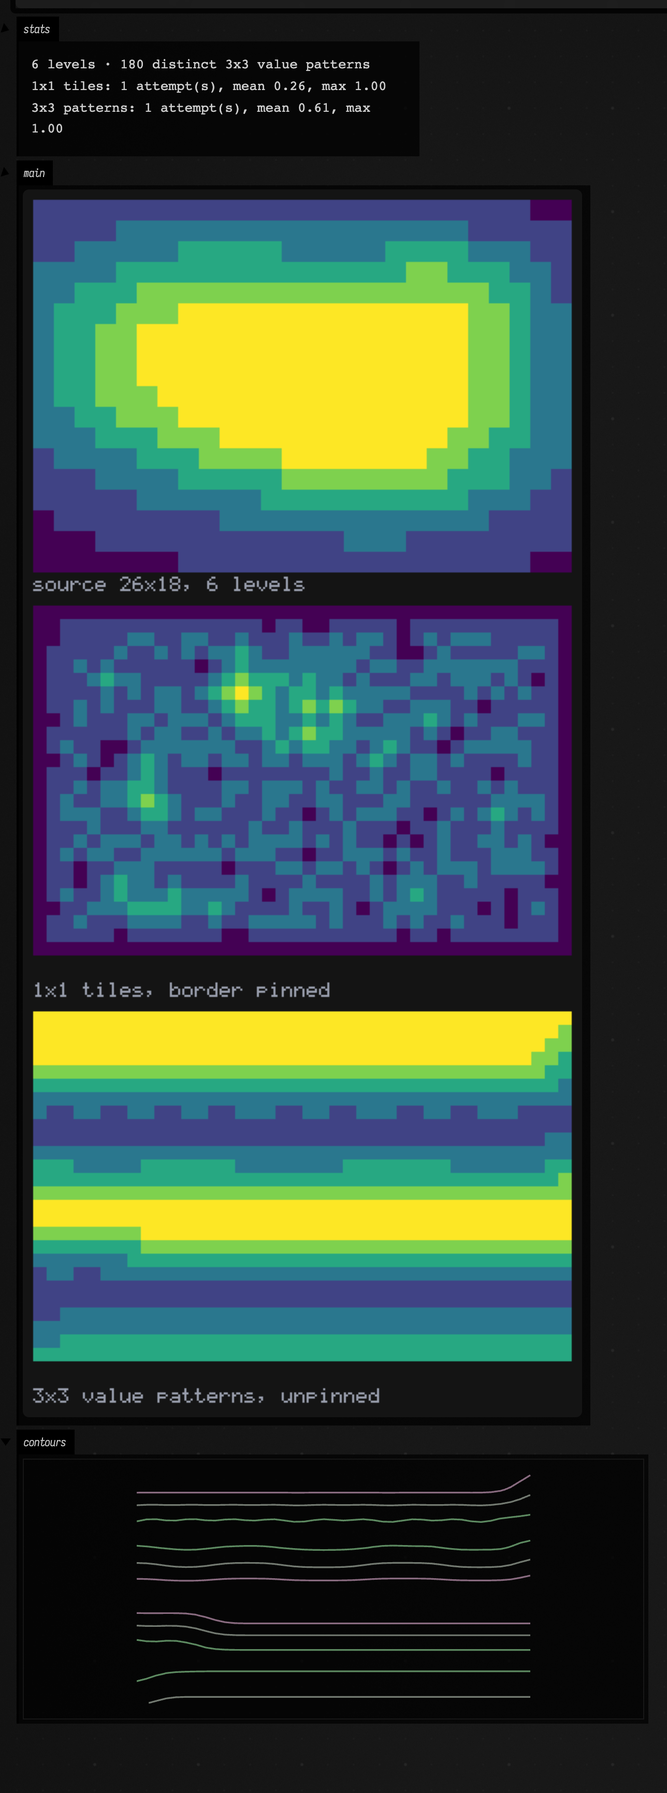
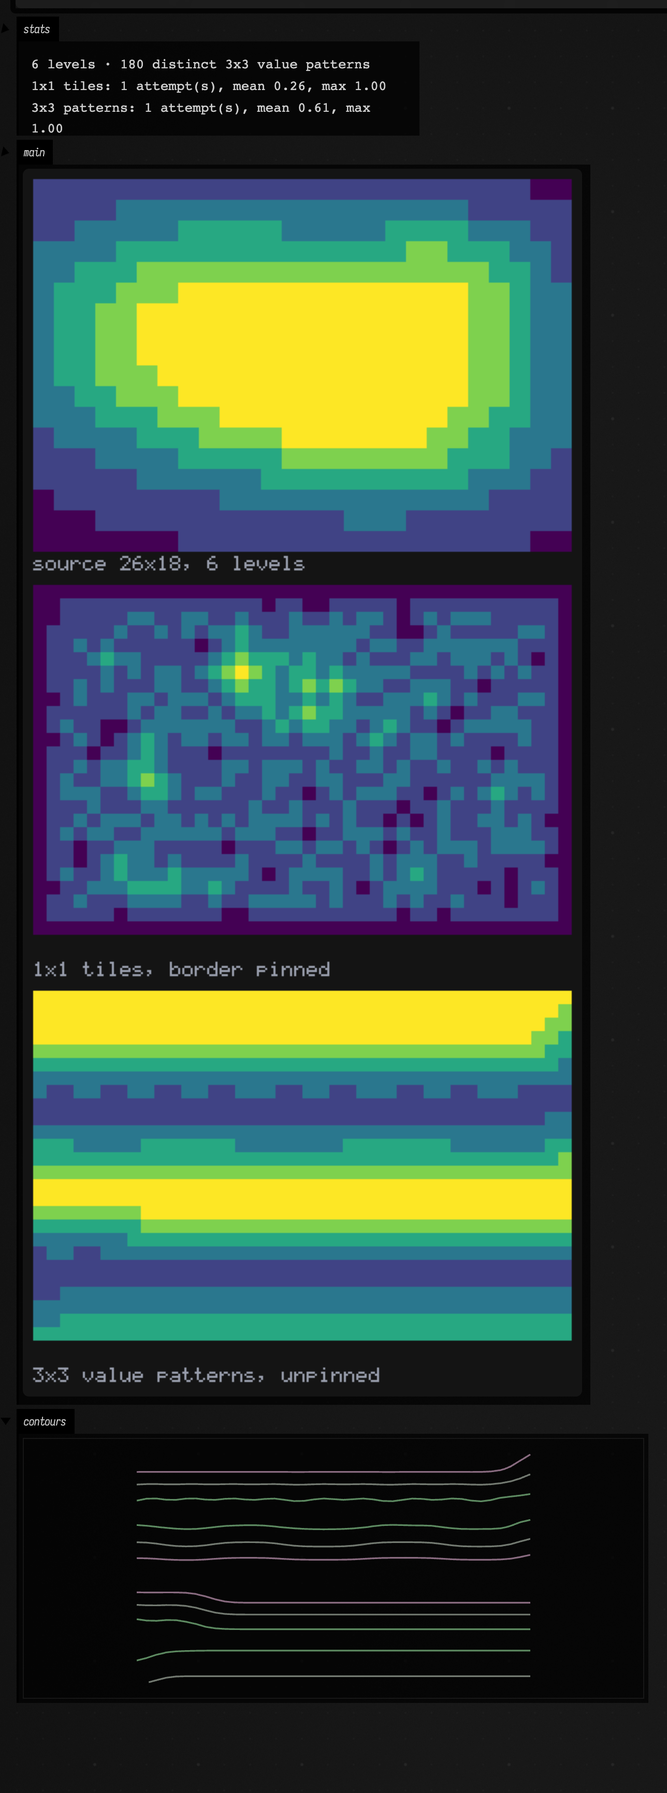
docs(wfc): the solver's own inline view, as a real capture
A new subsection of §5: what the collapse looks like when you simply evaluate the
solver, next to the same view of a failure. One captured figure, produced by the
docs runner from the code shown above it, with a table naming each panel's colour
scale and a read-back channel printing the numbers the panels were drawn from —
so the picture can be checked against them (368/816 decided at 45.1%, one
contradicted cell, entropy ranges 0..1.318 and 0..1.099 nats).

The prose records a design decision that only looking at the picture could have
found: the count panel was magma first, whose mid-ramp pink sits a shade from the
contradiction magenta, and a healthy collapse frontier read as a field of
contradictions. A marker colour is only a marker if it is outside its own ramp.

scalar-field.png and contradiction.png were re-captured because inserting a fence
shifts the block index their cache key includes. contradiction.png is identical
bar 154 edge-antialiasing pixels; scalar-field.png differs by a vertical layout
shift and still shows exactly what the page claims (6 levels, 180 patterns, 1x1
mean 0.26 speckle, 3x3 mean 0.61 horizontal bands, four iso-contour FLines) —
checked by eye against the text.

reference/{data,index}.md and dev_docs/kdoc_worklist.md regenerated for the new
public API; the drift guard (docs.codebase-reference.generate) passes.

diff --git a/public/docs/reference/data.md b/public/docs/reference/data.md
@@ -4,7 +4,7 @@
 
 Structures and processes over data rather than over pixels: clustering and nearest-neighbour search, generative and constraint systems, graph dynamics, and the I/O helpers (files, JSON, subprocesses, OSC-adjacent devices) that get data into a box.
 
-16 source file(s), 617 public symbol(s), 192 of them carrying KDoc. Everything below is the documentation that lives beside the code — the same text the [completion documentation panel](../completion_doc_browser.md) shows in the editor. A blank summary means the declaration has no KDoc yet, not that this page dropped it.
+16 source file(s), 640 public symbol(s), 206 of them carrying KDoc. Everything below is the documentation that lives beside the code — the same text the [completion documentation panel](../completion_doc_browser.md) shows in the editor. A blank summary means the declaration has no KDoc yet, not that this page dropped it.
 
 <div class="codebase-reference" markdown>
 
@@ -1313,6 +1313,10 @@ What this implements:
 Notes:
 - The WFC solver operates only on integer tile IDs and constraints.
 - PNG/FloatArray simple-tiled and overlapping helpers are intentionally separate from the core.
+- The one concession to the rest of Field: [`WfcSolver`](data.md#wfc-kt-wfcsolver) implements [`afield.ToHTML`](visualization.md#valuevisualizer-kt-tohtml), so evaluating a
+  solver in a box draws the collapse instead of a reflective property tree. Every pixel of that
+  view lives in `wfc_field.kt` (`afield.stdlib.wfcSolverHtml`); this file names it once, in
+  `WfcSolver.toHTML`, and depends on nothing else outside itself.
 
 `src/jvmMain/kotlin/afield/stdlib/wfc.kt`
 
@@ -1415,7 +1419,7 @@ Constants: `Running`, `Solved`, `Contradiction`.
 
 ### WfcSolver { #wfc-kt-wfcsolver }
 
-<code class="highlight"><span class="k">class</span> <span class="nf">WfcSolver</span><span class="p">(</span><span class="k">val</span> <span class="n">width</span><span class="p">:</span> <span class="nc">Int</span><span class="p">,</span> <span class="k">val</span> <span class="n">height</span><span class="p">:</span> <span class="nc">Int</span><span class="p">,</span> <span class="k">val</span> <span class="n">rules</span><span class="p">:</span> <span class="nc">WfcRules</span><span class="p">,</span> <span class="n">seed</span><span class="p">:</span> <span class="nc">Long</span> <span class="o">=</span> <span class="mi">1L</span><span class="p">,</span> <span class="k">private</span> <span class="k">val</span> <span class="n">noise</span><span class="p">:</span> <span class="nc">Double</span> <span class="o">=</span> <span class="mi">1e</span><span class="p">-</span><span class="mi">6</span><span class="p">)</span></code>
+<code class="highlight"><span class="k">class</span> <span class="nf">WfcSolver</span><span class="p">(</span><span class="k">val</span> <span class="n">width</span><span class="p">:</span> <span class="nc">Int</span><span class="p">,</span> <span class="k">val</span> <span class="n">height</span><span class="p">:</span> <span class="nc">Int</span><span class="p">,</span> <span class="k">val</span> <span class="n">rules</span><span class="p">:</span> <span class="nc">WfcRules</span><span class="p">,</span> <span class="n">seed</span><span class="p">:</span> <span class="nc">Long</span> <span class="o">=</span> <span class="mi">1L</span><span class="p">,</span> <span class="k">private</span> <span class="k">val</span> <span class="n">noise</span><span class="p">:</span> <span class="nc">Double</span> <span class="o">=</span> <span class="mi">1e</span><span class="p">-</span><span class="mi">6</span><span class="p">)</span> <span class="p">:</span> <span class="n">afield</span><span class="p">.</span><span class="nc">ToHTML</span></code>
 
 | Declaration | Summary |
 | --- | --- |
@@ -1433,6 +1437,8 @@ Constants: `Running`, `Solved`, `Contradiction`.
 | <code class="highlight"><span class="k">fun</span> <span class="nf">run</span><span class="p">(</span><span class="n">maxSteps</span><span class="p">:</span> <span class="nc">Int</span> <span class="o">=</span> <span class="nc">Int</span><span class="p">.</span><span class="nc">MAX&#95;VALUE</span><span class="p">)</span><span class="p">:</span> <span class="nc">WfcStatus</span></code> |  |
 | <code class="highlight"><span class="k">fun</span> <span class="nf">resolvedCellCount</span><span class="p">(</span><span class="p">)</span><span class="p">:</span> <span class="nc">Int</span></code> | Cells collapsed to a single possibility — the WFC notion of "done" is all of them. |
 | <code class="highlight"><span class="k">fun</span> <span class="nf">resolvedTileGridOrNull</span><span class="p">(</span><span class="p">)</span><span class="p">:</span> <span class="nc">IntArray</span><span class="o">?</span></code> |  |
+| <code class="highlight"><span class="k">override</span> <span class="k">fun</span> <span class="nf">toString</span><span class="p">(</span><span class="p">)</span><span class="p">:</span> <span class="nc">String</span></code> |  |
+| <code class="highlight"><span class="k">override</span> <span class="k">fun</span> <span class="nf">toHTML</span><span class="p">(</span><span class="p">)</span><span class="p">:</span> <span class="nc">String</span></code> | The solver's own inline view, so that evaluating it in a box — or `solver.h` — shows the collapse: remaining possibilities per cell, entropy, what has been decided, and any contradiction, each panel captioned with the colour scale that produced it. |
 
 ### WfcOutcome { #wfc-kt-wfcoutcome }
 
@@ -1526,7 +1532,7 @@ no direct way to *look* at what it is doing. These extensions supply the missing
 [`Img`](imaging.md#imaging-kt-img), and therefore into `Box.showImg`, `showImgGrid`, `montage`, `Img.colormap` and the
 `ToHTML` thumbnail a box shows when you evaluate a value.
 
-Two kinds of view:
+Three kinds of view:
 
  1. **The result.** `PngTileSet.toImg`, `PngOverlappingTileSet.toImg` and their `Float`
     counterparts turn a solved tile grid into an image. Pair them with
@@ -1538,6 +1544,11 @@ Two kinds of view:
     `while (solver.step() == WfcStatus.Running)` loop and you have the collapse itself as a
     sequence of frames — which is by far the most informative thing you can look at when rules
     are not behaving.
+ 3. **The solver, inline.** `wfcSolverHtml` is the body of [`WfcSolver`](data.md#wfc-kt-wfcsolver)'s own `ToHTML`, so simply
+    *evaluating* a solver in a box — or `solver.h` — draws its current state: uncertainty,
+    entropy, what has been decided, where it broke. Nothing to set up, no tile set needed. See
+    `WfcSolver.possibilityCountHeatmapImg`, `WfcSolver.entropyHeatmapImg` and
+    `WfcSolver.resolvedTileImg` for the three panels on their own.
 
 Because a solved cell has exactly one possibility, `waveToImg` on a `WfcStatus.Solved` solver is
 the finished output: the animation's last frame and the result are the same picture, by
@@ -1562,5 +1573,39 @@ construction rather than by coincidence.
 | <code class="highlight"><span class="k">fun</span> <span class="nc">WfcSolver</span><span class="p">.</span><span class="nf">possibilityCountImg</span><span class="p">(</span><span class="p">)</span><span class="p">:</span> <span class="nc">Img</span></code> | `possibilityCountGrid` as a 1-channel [`Img`](imaging.md#imaging-kt-img), ready to colour-map. |
 | <code class="highlight"><span class="k">fun</span> <span class="nc">WfcSolver</span><span class="p">.</span><span class="nf">resolvedCellCount</span><span class="p">(</span><span class="p">)</span><span class="p">:</span> <span class="nc">Int</span></code> | How many cells have collapsed to exactly one possibility. |
 | <code class="highlight"><span class="k">fun</span> <span class="nc">WfcSolver</span><span class="p">.</span><span class="nf">resolvedFraction</span><span class="p">(</span><span class="p">)</span><span class="p">:</span> <span class="nc">Double</span></code> | `resolvedCellCount` as a `0..1` fraction — a progress read-out for a `step()` loop. |
+| <code class="highlight"><span class="k">fun</span> <span class="nc">WfcSolver</span><span class="p">.</span><span class="nf">possibilityCountHeatmap</span><span class="p">(</span><span class="n">colormap</span><span class="p">:</span> <span class="nc">String</span> <span class="o">=</span> <span class="s">&quot;viridis&quot;</span><span class="p">)</span><span class="p">:</span> <span class="nc">WfcHeatmap</span></code> | Uncertainty as a picture: one pixel per cell, coloured by how many tiles are still possible there. |
+| <code class="highlight"><span class="k">fun</span> <span class="nc">WfcSolver</span><span class="p">.</span><span class="nf">possibilityCountHeatmapImg</span><span class="p">(</span><span class="n">colormap</span><span class="p">:</span> <span class="nc">String</span> <span class="o">=</span> <span class="s">&quot;viridis&quot;</span><span class="p">)</span><span class="p">:</span> <span class="nc">Img</span></code> | `possibilityCountHeatmap` as just the image. |
+| <code class="highlight"><span class="k">fun</span> <span class="nc">WfcSolver</span><span class="p">.</span><span class="nf">entropyGrid</span><span class="p">(</span><span class="p">)</span><span class="p">:</span> <span class="nc">FloatArray</span></code> | The **weighted Shannon entropy** of every cell, in nats, row-major — the quantity the solver itself minimises when it picks the next cell to observe, unlike the raw count from `possibilityCountGrid`. |
+| <code class="highlight"><span class="k">fun</span> <span class="nc">WfcRules</span><span class="p">.</span><span class="nf">fullSetEntropy</span><span class="p">(</span><span class="p">)</span><span class="p">:</span> <span class="nc">Double</span></code> | The entropy of a cell in which *every* tile is still possible — the top of the `entropyHeatmap` scale, and the value `WfcSolver.entropyGrid` returns for an untouched cell. |
+| <code class="highlight"><span class="k">fun</span> <span class="nc">WfcSolver</span><span class="p">.</span><span class="nf">entropyHeatmap</span><span class="p">(</span><span class="n">colormap</span><span class="p">:</span> <span class="nc">String</span> <span class="o">=</span> <span class="s">&quot;magma&quot;</span><span class="p">)</span><span class="p">:</span> <span class="nc">WfcHeatmap</span></code> | `entropyGrid` colour-mapped over a fixed `0 ..` `WfcRules.fullSetEntropy` domain — decided cells dark, wide-open cells bright, and cells whose entropy is undefined painted `WFC_UNDEFINED_COLOR` and excluded from the range rather than clamped to the "decided" end. |
+| <code class="highlight"><span class="k">fun</span> <span class="nc">WfcSolver</span><span class="p">.</span><span class="nf">entropyHeatmapImg</span><span class="p">(</span><span class="n">colormap</span><span class="p">:</span> <span class="nc">String</span> <span class="o">=</span> <span class="s">&quot;magma&quot;</span><span class="p">)</span><span class="p">:</span> <span class="nc">Img</span></code> | `entropyHeatmap` as just the image. |
+| <code class="highlight"><span class="k">fun</span> <span class="nf">wfcTileColor</span><span class="p">(</span><span class="n">tile</span><span class="p">:</span> <span class="nc">Int</span><span class="p">)</span><span class="p">:</span> <span class="nc">Int</span></code> | A stable, tileset-independent display colour for tile id `tile`, packed `0xRRGGBB`. |
+| <code class="highlight"><span class="k">fun</span> <span class="nc">WfcSolver</span><span class="p">.</span><span class="nf">resolvedTileImg</span><span class="p">(</span><span class="p">)</span><span class="p">:</span> <span class="nc">Img</span></code> | What the solver has actually decided: one pixel per cell, `wfcTileColor` where the cell has collapsed to a single tile, `WFC_UNDECIDED_COLOR` where it has not, `WFC_CONTRADICTION_COLOR` where its possibility set is empty. |
+| <code class="highlight"><span class="k">fun</span> <span class="nf">wfcSolverHtml</span><span class="p">(</span><span class="n">solver</span><span class="p">:</span> <span class="nc">WfcSolver</span><span class="p">)</span><span class="p">:</span> <span class="nc">String</span></code> | The inline view of a solver — the body of [`WfcSolver`](data.md#wfc-kt-wfcsolver)'s `ToHTML`, so that evaluating a solver in a box (or `solver.h`) shows the collapse rather than a reflective property tree. |
+
+### Top-level values { #wfc-field-kt-values }
+
+| Declaration | Summary |
+| --- | --- |
+| <code class="highlight"><span class="k">val</span> <span class="nc">WFC&#95;CONTRADICTION&#95;COLOR</span><span class="p">:</span> <span class="nc">Int</span></code> | Packed `0xRRGGBB` of the contradiction marker — magenta, matching `PngTileSet.waveToImg`. |
+| <code class="highlight"><span class="k">const</span> <span class="k">val</span> <span class="nc">WFC&#95;UNDEFINED&#95;COLOR</span><span class="p">:</span> <span class="nc">Int</span></code> | Packed `0xRRGGBB` of the "this value has no place on the scale" marker — cyan. NaN, or infinite. |
+| <code class="highlight"><span class="k">const</span> <span class="k">val</span> <span class="nc">WFC&#95;UNDECIDED&#95;COLOR</span><span class="p">:</span> <span class="nc">Int</span></code> | Packed `0xRRGGBB` drawn for a cell that is still undecided in `WfcSolver.resolvedTileImg` — dark grey. |
+
+### WfcHeatmap { #wfc-field-kt-wfcheatmap }
+
+<code class="highlight"><span class="k">class</span> <span class="nc">WfcHeatmap</span> <span class="k">internal</span> <span class="k">constructor</span><span class="p">(</span><span class="k">val</span> <span class="n">img</span><span class="p">:</span> <span class="nc">Img</span><span class="p">,</span> <span class="k">val</span> <span class="n">lo</span><span class="p">:</span> <span class="nc">Float</span><span class="p">,</span> <span class="k">val</span> <span class="n">hi</span><span class="p">:</span> <span class="nc">Float</span><span class="p">,</span> <span class="k">val</span> <span class="n">finiteCount</span><span class="p">:</span> <span class="nc">Int</span><span class="p">,</span> <span class="k">val</span> <span class="n">nonFiniteCount</span><span class="p">:</span> <span class="nc">Int</span><span class="p">,</span> <span class="k">val</span> <span class="n">flat</span><span class="p">:</span> <span class="nc">Boolean</span><span class="p">,</span> <span class="k">val</span> <span class="n">colormap</span><span class="p">:</span> <span class="nc">String</span><span class="p">)</span></code>
+
+A colour-mapped scalar-per-cell field, together with the range policy that produced it — so a caption can state the scale rather than implying one.
+
+| Declaration | Summary |
+| --- | --- |
+| <code class="highlight"><span class="k">val</span> <span class="n">img</span><span class="p">:</span> <span class="nc">Img</span></code> |  |
+| <code class="highlight"><span class="k">val</span> <span class="n">lo</span><span class="p">:</span> <span class="nc">Float</span></code> |  |
+| <code class="highlight"><span class="k">val</span> <span class="n">hi</span><span class="p">:</span> <span class="nc">Float</span></code> |  |
+| <code class="highlight"><span class="k">val</span> <span class="n">finiteCount</span><span class="p">:</span> <span class="nc">Int</span></code> |  |
+| <code class="highlight"><span class="k">val</span> <span class="n">nonFiniteCount</span><span class="p">:</span> <span class="nc">Int</span></code> |  |
+| <code class="highlight"><span class="k">val</span> <span class="n">flat</span><span class="p">:</span> <span class="nc">Boolean</span></code> |  |
+| <code class="highlight"><span class="k">val</span> <span class="n">colormap</span><span class="p">:</span> <span class="nc">String</span></code> |  |
+| <code class="highlight"><span class="k">override</span> <span class="k">fun</span> <span class="nf">toString</span><span class="p">(</span><span class="p">)</span><span class="p">:</span> <span class="nc">String</span></code> |  |
 
 </div>

diff --git a/dev_docs/kdoc_worklist.md b/dev_docs/kdoc_worklist.md
@@ -2,9 +2,9 @@
 <!-- Regenerate: ./gradlew generateCodebaseReference -->
 # KDoc worklist
 
-The other half of the coverage column on [the codebase reference](../public/docs/reference/index.md): 2168 of 4040 public symbols in `afield.stdlib` and `afield.visualization` carry a KDoc summary, and this is what is missing, most valuable first.
+The other half of the coverage column on [the codebase reference](../public/docs/reference/index.md): 2182 of 4063 public symbols in `afield.stdlib` and `afield.visualization` carry a KDoc summary, and this is what is missing, most valuable first.
 
-**274 undocumented entry points** (types, top-level functions and values) and 1484 undocumented members. Overload families count once — documenting `pulseTrain` closes one gap, not six — and the members Kotlin generates for a `data class` are not counted at all.
+**274 undocumented entry points** (types, top-level functions and values) and 1491 undocumented members. Overload families count once — documenting `pulseTrain` closes one gap, not six — and the members Kotlin generates for a `data class` are not counted at all.
 
 Ranking is by payoff, from signals the generator already has: files that a worked example page demonstrably calls come first, then types before functions before values, then the widest gaps. Write the KDoc next to the declaration, then run `./gradlew generateCodebaseReference` — the reference pages and this list both follow from the source.
 
@@ -28,6 +28,7 @@ Ranking is by payoff, from signals the generator already has: files that a worke
 | [imaging.kt](../src/jvmMain/kotlin/afield/stdlib/imaging.kt) | Imaging | imaging_examples, wfc_examples | 0 | 10 | 85% |
 | [imaging_features.kt](../src/jvmMain/kotlin/afield/stdlib/imaging_features.kt) | Imaging | imaging_examples, visualizers | 0 | 10 | 77% |
 | [booleannetworks.kt](../src/jvmMain/kotlin/afield/stdlib/booleannetworks.kt) | Data | boolean_networks_examples, boolean_network_music_examples | 0 | 7 | 78% |
+| [wfc_field.kt](../src/jvmMain/kotlin/afield/stdlib/wfc_field.kt) | Data | wfc_examples | 0 | 7 | 75% |
 | [imaging_filters.kt](../src/jvmMain/kotlin/afield/stdlib/imaging_filters.kt) | Imaging | imaging_examples | 0 | 6 | 82% |
 | [FunctionRewritePattern.kt](../src/jvmMain/kotlin/afield/stdlib/FunctionRewritePattern.kt) | Function | functions_examples | 0 | 2 | 84% |
 | [CeresGeometry.kt](../src/jvmMain/kotlin/afield/stdlib/ceres/CeresGeometry.kt) | Graphics | — | 45 | 226 | 0% |
@@ -61,10 +62,10 @@ Ranking is by payoff, from signals the generator already has: files that a worke
 
 | Declaration | Kind | Where |
 | --- | --- | --- |
-| `WfcOffset` | class | `src/jvmMain/kotlin/afield/stdlib/wfc.kt:31` |
-| `WfcStatus` | class | `src/jvmMain/kotlin/afield/stdlib/wfc.kt:721` |
-| `WfcObservation` | class | `src/jvmMain/kotlin/afield/stdlib/wfc.kt:723` |
-| `WfcSolver` | class | `src/jvmMain/kotlin/afield/stdlib/wfc.kt:725` |
+| `WfcOffset` | class | `src/jvmMain/kotlin/afield/stdlib/wfc.kt:35` |
+| `WfcStatus` | class | `src/jvmMain/kotlin/afield/stdlib/wfc.kt:725` |
+| `WfcObservation` | class | `src/jvmMain/kotlin/afield/stdlib/wfc.kt:727` |
+| `WfcSolver` | class | `src/jvmMain/kotlin/afield/stdlib/wfc.kt:729` |
 | `FnGraphRebuilder` | typealias | `src/jvmMain/kotlin/afield/stdlib/FunctionGraph.kt:49` |
 | `Functions` | object | `src/jvmMain/kotlin/afield/stdlib/Functions.kt:204` |
 | `Vec4` | typealias | `src/jvmMain/kotlin/afield/stdlib/linalg.kt:47` |
@@ -76,22 +77,22 @@ Ranking is by payoff, from signals the generator already has: files that a worke
 | `Vec2h` | typealias | `src/jvmMain/kotlin/afield/stdlib/stdlib.kt:881` |
 | `Vec3h` | typealias | `src/jvmMain/kotlin/afield/stdlib/stdlib.kt:884` |
 | `Vec4h` | typealias | `src/jvmMain/kotlin/afield/stdlib/stdlib.kt:887` |
-| `WfcNeighbourhood` | typealias | `src/jvmMain/kotlin/afield/stdlib/wfc.kt:148` |
-| `BufferedImage.sliceIntoUniqueTiles` | fun | `src/jvmMain/kotlin/afield/stdlib/wfc.kt:1192` |
-| `loadPngTiles` | fun | `src/jvmMain/kotlin/afield/stdlib/wfc.kt:1232` |
-| `BufferedImage.sliceIntoOverlappingPatterns` | fun | `src/jvmMain/kotlin/afield/stdlib/wfc.kt:1235` |
-| `loadPngOverlappingPatterns` | fun | `src/jvmMain/kotlin/afield/stdlib/wfc.kt:1286` |
-| `savePng` | fun | `src/jvmMain/kotlin/afield/stdlib/wfc.kt:1295` |
-| `FloatArray.sliceIntoUniqueTiles2D` | fun | `src/jvmMain/kotlin/afield/stdlib/wfc.kt:1385` |
-| `FloatArray.sliceIntoOverlappingPatterns2D` | fun | `src/jvmMain/kotlin/afield/stdlib/wfc.kt:1432` |
-| `WFC_NORTH` | val | `src/jvmMain/kotlin/afield/stdlib/wfc.kt:26` |
-| `WFC_EAST` | val | `src/jvmMain/kotlin/afield/stdlib/wfc.kt:27` |
-| `WFC_SOUTH` | val | `src/jvmMain/kotlin/afield/stdlib/wfc.kt:28` |
-| `WFC_WEST` | val | `src/jvmMain/kotlin/afield/stdlib/wfc.kt:29` |
-| `WFC_VON_NEUMANN_NEIGHBORHOOD` | val | `src/jvmMain/kotlin/afield/stdlib/wfc.kt:150` |
-| `WFC_MOORE_NEIGHBORHOOD` | val | `src/jvmMain/kotlin/afield/stdlib/wfc.kt:151` |
-| `WFC_VON_NEUMANN_NEIGHBOURHOOD` | val | `src/jvmMain/kotlin/afield/stdlib/wfc.kt:152` |
-| `WFC_MOORE_NEIGHBOURHOOD` | val | `src/jvmMain/kotlin/afield/stdlib/wfc.kt:153` |
+| `WfcNeighbourhood` | typealias | `src/jvmMain/kotlin/afield/stdlib/wfc.kt:152` |
+| `BufferedImage.sliceIntoUniqueTiles` | fun | `src/jvmMain/kotlin/afield/stdlib/wfc.kt:1210` |
+| `loadPngTiles` | fun | `src/jvmMain/kotlin/afield/stdlib/wfc.kt:1250` |
+| `BufferedImage.sliceIntoOverlappingPatterns` | fun | `src/jvmMain/kotlin/afield/stdlib/wfc.kt:1253` |
+| `loadPngOverlappingPatterns` | fun | `src/jvmMain/kotlin/afield/stdlib/wfc.kt:1304` |
+| `savePng` | fun | `src/jvmMain/kotlin/afield/stdlib/wfc.kt:1313` |
+| `FloatArray.sliceIntoUniqueTiles2D` | fun | `src/jvmMain/kotlin/afield/stdlib/wfc.kt:1403` |
+| `FloatArray.sliceIntoOverlappingPatterns2D` | fun | `src/jvmMain/kotlin/afield/stdlib/wfc.kt:1450` |
+| `WFC_NORTH` | val | `src/jvmMain/kotlin/afield/stdlib/wfc.kt:30` |
+| `WFC_EAST` | val | `src/jvmMain/kotlin/afield/stdlib/wfc.kt:31` |
+| `WFC_SOUTH` | val | `src/jvmMain/kotlin/afield/stdlib/wfc.kt:32` |
+| `WFC_WEST` | val | `src/jvmMain/kotlin/afield/stdlib/wfc.kt:33` |
+| `WFC_VON_NEUMANN_NEIGHBORHOOD` | val | `src/jvmMain/kotlin/afield/stdlib/wfc.kt:154` |
+| `WFC_MOORE_NEIGHBORHOOD` | val | `src/jvmMain/kotlin/afield/stdlib/wfc.kt:155` |
+| `WFC_VON_NEUMANN_NEIGHBOURHOOD` | val | `src/jvmMain/kotlin/afield/stdlib/wfc.kt:156` |
+| `WFC_MOORE_NEIGHBOURHOOD` | val | `src/jvmMain/kotlin/afield/stdlib/wfc.kt:157` |
 | `Any.h` | val | `src/jvmMain/kotlin/afield/visualization/ValueVisualizer.kt:2476` |
 | `JSONProcess` | class | `src/jvmMain/kotlin/afield/stdlib/JSONProcess.kt:37` |
 | `LeastSquaresOptions` | class | `src/jvmMain/kotlin/afield/stdlib/LeastSquares.kt:26` |

diff --git a/public/docs/wfc_examples.md b/public/docs/wfc_examples.md
@@ -673,6 +673,115 @@ loop {
 }
 ```
 
+### The solver's own inline view
+
+Everything above had to be *arranged*: pick a view, colour-map it, choose a range, montage it, push
+it to a channel. That is the right amount of work for a figure on a page and far too much for the
+thing you actually do a hundred times an hour while live coding, which is: look at the object.
+
+So `WfcSolver` implements `ToHTML`. Evaluating a solver — as a box's last expression, or via `.h`
+anywhere — draws its state instead of a reflective property tree. No tile set is needed, because none
+of these panels claims to show the tileset's colours:
+
+| panel | colour means | scale |
+| --- | --- | --- |
+| possibilities left | how many tiles are still possible in that cell | `viridis`, fixed `1` (decided) … `tileCount` (untouched) |
+| entropy | weighted Shannon entropy, in nats — the quantity the solver actually minimises | `magma`, fixed `0` … `rules.fullSetEntropy()` |
+| decided tiles | which tile a cell settled on, as a stable hue per id | dark grey where still undecided |
+
+The two heatmaps' domains are fixed by *meaning* rather than per frame, so successive looks at a
+running solver are comparable; auto-ranging is what makes an animated collapse appear to stand still.
+Values with nowhere to sit on a scale are taken off it and marked rather than clamped: a cell with
+**zero** possibilities is magenta in the count panel, because clamping 0 onto a `1..n` ramp would
+paint the one failure you need to see at the *decided* end and read as success. Entropy has a second
+such case — `fromSampleGrid` gives weight 0 to a tile the sample never contained, and a cell whose
+only survivor is such a tile has genuinely undefined entropy — drawn cyan, counted in the caption,
+and excluded from the range. Each caption names its colour scale and both endpoints in units, so a
+panel is never a picture whose meaning you have to guess.
+
+The two ramps are not interchangeable, and the reason is worth stating because only looking at the
+picture found it. A marker colour is only a marker if it is *outside* the ramp it sits on. The count
+panel was drawn in `magma` first — whose middle is pink, a shade away from the contradiction magenta —
+and a perfectly healthy collapse frontier read as a field of contradictions. Counts are therefore
+viridis (purple → teal → yellow, no pink) with a magenta marker, and entropy is magma (black → pink →
+cream, no cyan) with a cyan one.
+
+```diffstatic_runner {data-lang=kotlin screenshot="assets/wfc_examples/inline-view.png" wait="2.0" capture="box" open-outputs="true" w="1200" name="wfc-inline-view"}
+:::static
+:::fold section 2's terrain source, with section 2's re-weighted model
+fun bump(u: Double, v: Double, cx: Double, cy: Double, r: Double): Double {
+    val dx = u - cx
+    val dy = v - cy
+    return exp(-(dx * dx + dy * dy) / (2.0 * r * r))
+}
+val palette = listOf(
+    Triple(0.08f, 0.20f, 0.31f),
+    Triple(0.18f, 0.48f, 0.66f),
+    Triple(0.85f, 0.78f, 0.55f),
+    Triple(0.31f, 0.55f, 0.24f),
+    Triple(0.12f, 0.29f, 0.14f)
+)
+val bands = IntArray(26 * 18)
+for (cy in 0 until 18) for (cx in 0 until 26) {
+    val u = cx / 25.0
+    val v = cy / 17.0
+    val e = bump(u, v, 0.30, 0.40, 0.25) +
+        0.90 * bump(u, v, 0.70, 0.62, 0.21) +
+        0.55 * bump(u, v, 0.82, 0.22, 0.13) -
+        0.62 * bump(u, v, 0.34, 0.44, 0.085)
+    bands[cx + cy * 26] = if (e < 0.16) 0 else if (e < 0.32) 1 else if (e < 0.44) 2 else if (e < 0.74) 3 else 4
+}
+val source = Img.generateRGB(26, 18) { x, y -> palette[bands[x + y * 26]] }
+val tiles = source.toBufferedImage().sliceIntoUniqueTiles(1, 1)
+val rules = tiles.toRules()
+val tileOfBand = IntArray(palette.size)
+for (i in bands.indices) tileOfBand[bands[i]] = tiles.sampleIds[i]
+rules.weights[tileOfBand[0]] *= 2.0
+rules.weights[tileOfBand[1]] *= 1.5
+rules.weights[tileOfBand[2]] *= 10.0
+:::endfold
+
+// Halfway through a collapse. `.h` is the fragment ToHTML returns, so this is exactly what the box
+// shows when its last expression is `solver` — nothing here is a special-purpose figure.
+val solver = WfcSolver(34, 24, rules, seed = 5L)
+while (solver.resolvedFraction() < 0.45 && solver.step() == WfcStatus.Running) { }
+display("a. mid-collapse", solver.h)
+
+// The same view of a failure. Section 7's over-constrained chain: nothing may sit east of tile 2, so
+// a 6x6 grid cannot be filled, and propagation empties a cell.
+val strict = wfcRules(tileCount = 3) {
+    allow(WFC_EAST, 0, 1)
+    allow(WFC_EAST, 1, 2)
+    allow(WFC_SOUTH, 0, 1)
+    allow(WFC_SOUTH, 1, 2)
+}
+val stuck = WfcSolver(6, 6, strict, seed = 1L)
+stuck.run()
+display("b. contradicted", stuck.h)
+
+// And the numbers the panels are drawn from, so the picture can be checked against them.
+display("c. read back", "<pre style='font:13px monospace;line-height:1.5'>" +
+    "mid-collapse: ${solver}\n" +
+    "  entropy range drawn: 0 .. ${"%.3f".format(rules.fullSetEntropy())} nats" +
+    " (${solver.entropyHeatmap().nonFiniteCount} cells undefined)\n" +
+    "contradicted: ${stuck}\n" +
+    "  cells with no possibilities left: ${stuck.possibilityCountGrid().count { it == 0 }}</pre>")
+```
+
+![two rows of three small heatmaps each: a 34x24 solver 45% through a collapse, with a dark decided mass, a teal speckled frontier and a bright yellow untouched region, and below it a contradicted 6x6 solver whose emptied cell is magenta in the count panel and cyan in the entropy panel](assets/wfc_examples/inline-view.png)
+
+The mid-collapse row shows the same story as the montage above, without having built one: the decided
+mass is dark in both heatmaps, the untouched region is bright, and the speckled band between them is
+the frontier — cells propagation has narrowed without deciding. The count and entropy panels are *not*
+redundant — a cell with three heavy options and a cell with three nearly-impossible ones have the
+same count and very different entropy, and it is entropy the solver sorts on, so the entropy panel is
+the one that predicts where it will work next. The decided-tiles panel is the answer to "on what?".
+
+The contradicted row is the case this view exists for. One cell is magenta in the count panel and
+cyan in the entropy panel — no possibilities left, and therefore no entropy — which localises the
+failure to a coordinate immediately. Reading `WfcStatus.Contradiction` off a `println` tells you only
+that something went wrong somewhere.
+
 ## 6. Not pixels: WFC on a scalar field
 
 Nothing in the solver knows what a pixel is. It works on integer tile IDs, and the image helpers are

diff --git a/public/docs/reference/index.md b/public/docs/reference/index.md
@@ -4,14 +4,14 @@
 
 Field's standard library is large and, until now, invisible: the only ways to read it were to open the source or to already know the name you wanted. This section is a browsable map of it — every public declaration in `afield.stdlib` and `afield.visualization`, with the KDoc that sits next to it in the source.
 
-**4040 public symbols across 68 source files**, 2168 of them (53%) carrying a KDoc summary. Pages are grouped by the `@file:CompletionCategory` label the source itself carries, which is the same grouping the editor's autocomplete uses.
+**4063 public symbols across 68 source files**, 2182 of them (53%) carrying a KDoc summary. Pages are grouped by the `@file:CompletionCategory` label the source itself carries, which is the same grouping the editor's autocomplete uses.
 
 The "documented" column is the honest one: it is a coverage report on Field's own KDoc, not a claim about this page. Where a summary is blank the declaration has none yet.
 
 | Category | Files | Symbols | Documented | Covers |
 | --- | --- | --- | --- | --- |
 | [Math](math.md) | 14 | 1292 | 896 (69%) | Numerics: signal processing in both domains, estimation and fitting, interpolation, statistics, randomness and units. |
-| [Data](data.md) | 16 | 617 | 192 (31%) | Structures and processes over data rather than over pixels: clustering and nearest-neighbour search, generative and constraint systems, graph dynamics, and the I/O helpers (files, JSON, subprocesses, OSC-adjacent devices) that get data into a box. |
+| [Data](data.md) | 16 | 640 | 206 (32%) | Structures and processes over data rather than over pixels: clustering and nearest-neighbour search, generative and constraint systems, graph dynamics, and the I/O helpers (files, JSON, subprocesses, OSC-adjacent devices) that get data into a box. |
 | [Graphics](graphics.md) | 14 | 1074 | 348 (32%) | Everything that ends up as an `FLine`, a colour or a shader: drawing helpers, contouring, geometry, colour spaces, keyframing and the small shading languages' host side. |
 | [Imaging](imaging.md) | 6 | 255 | 209 (81%) | Rasters and computer vision: convolution and the filter family, gradients and edges, corners, blobs and morphology, multiscale pyramids, warps and optical flow. |
 | [Function](function.md) | 10 | 345 | 228 (66%) | The function algebra — Field's first-class, evolvable, graph-rewritable notion of a function. |
@@ -91,8 +91,8 @@ The "documented" column is the honest one: it is a coverage report on Field's ow
 | [units.kt](math.md#units-kt) | Math | 47 | 12 | Physical units for Field's spreadsheet-style numbers. |  |
 | [ValueVisualizer.kt](visualization.md#valuevisualizer-kt) | Visualization | 9 | 7 | The default value display for Field output areas: a Kotlin value in, a compact HTML fragment out. | [Visualizers, Displays, and Little Instruments](../visualizers.md) |
 | [voronoi.kt](graphics.md#voronoi-kt) | Graphics | 63 | 0 | Practical 3D Voronoi and approximate 3D multiplicatively weighted Voronoi ("CircularDirichlet") for Kotlin + Field linalg. |  |
-| [wfc.kt](data.md#wfc-kt) | Data | 104 | 24 | Single-file, dependency-free Wave Function Collapse for Kotlin/JVM. | [Wave Function Collapse examples](../wfc_examples.md) |
-| [wfc_field.kt](data.md#wfc-field-kt) | Data | 11 | 11 | The bridge from Wave Function Collapse into the things Field already displays. | [Wave Function Collapse examples](../wfc_examples.md) |
+| [wfc.kt](data.md#wfc-kt) | Data | 106 | 25 | Single-file, dependency-free Wave Function Collapse for Kotlin/JVM. | [Wave Function Collapse examples](../wfc_examples.md) |
+| [wfc_field.kt](data.md#wfc-field-kt) | Data | 32 | 24 | The bridge from Wave Function Collapse into the things Field already displays. | [Wave Function Collapse examples](../wfc_examples.md) |
 
 </div>
 
